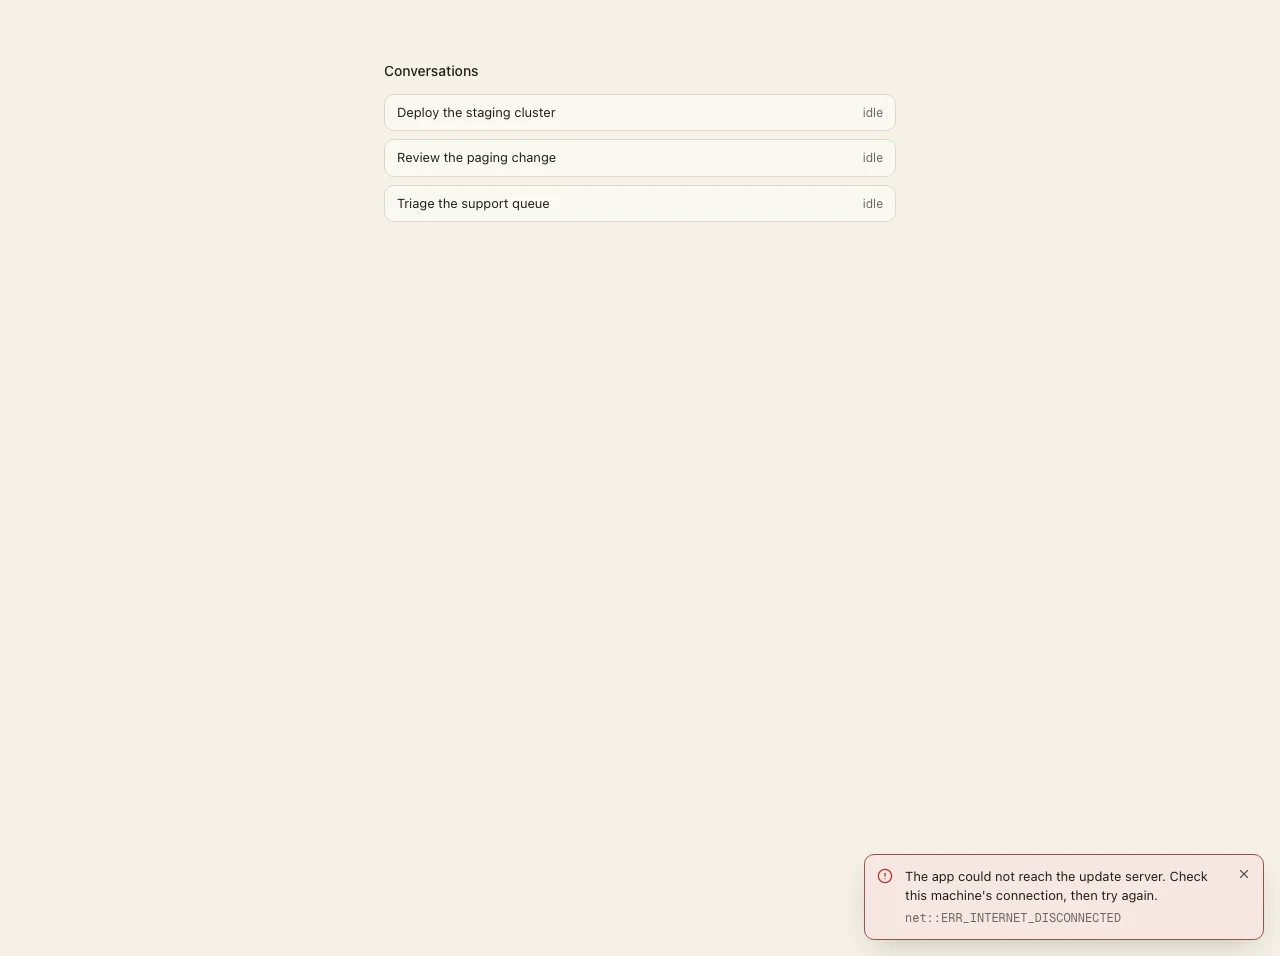
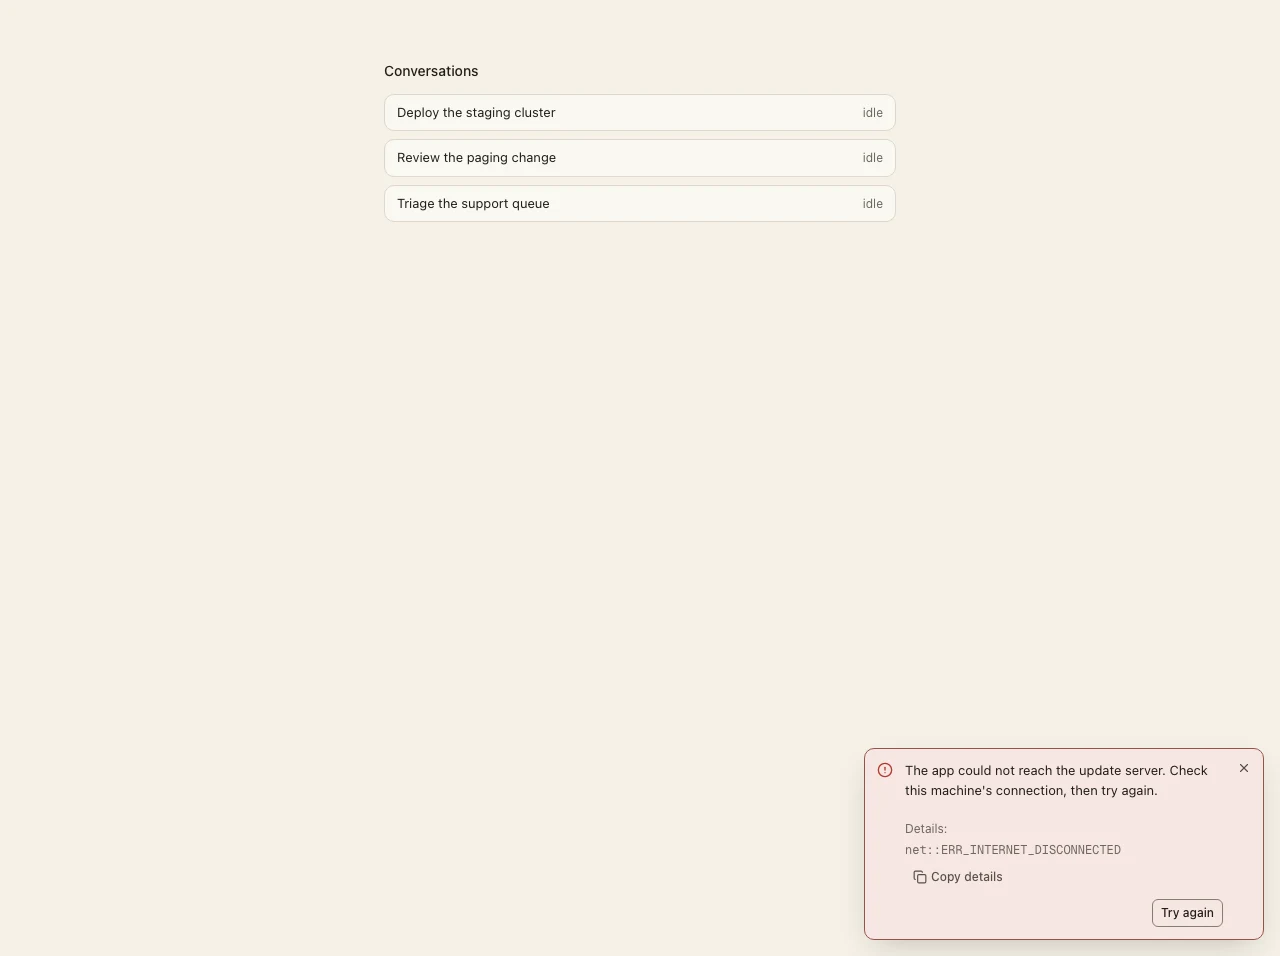
docs(evidence): the root cause, the round's frames, and every gate on it
THE ROOT CAUSE, not the symptom. `root-cause-dark-wake.txt` records what the
failure actually is: a macOS dark wake. `pmset -g log` has
`2026-09-16 09:03:12 DarkWake from Deep Idle [CDN] : due to
smc.sysState.Wake(0x70070000) wifibt` - the wake reason names the Wi-Fi stack -
and the feed fetch failed in that same second while airportd reported
`hasAssocToWiFi1 = 0`; the three endpoints answer 200 today and no proxy is
configured, so it is not an outage and not the path. Every command in that file
was re-run at capture time, and the two that could not be (the rotated log
lines, and a FALSE reading from `net.isOnline()`, which a working machine
cannot produce) say so in their own sections.

THE FRAMES. `error-state` now carries the retry its sentence names and no
self-dismiss timer; `error-state-wrapped` is the wrapped feed failure design
round 1 asked for, where the sentence stands alone and the machine's words sit
under a `Details:` label. The first capture of that frame was read rather than
trusted, and the code line had wrapped mid-token (`..._CHAN` / `GED`) - so
`PanelDetails` gained the stacked arrangement, the frame was re-captured, and
the panel surfaces' own eighteen frames are untouched.

The README says what those two frames are NOT: there is no "before" frame in the
tree, and the operator's own screenshot is the before (design D7).

Changed region(s): [[0.6875, 0.8797, 0.9688, 0.9707], [0.6875, 0.7887, 0.9375, 0.8494]]

diff --git a/docs/evidence/update-robustness/README.md b/docs/evidence/update-robustness/README.md
@@ -30,6 +30,8 @@ Copied from the audit of the operator's machine
 | [remediation-round-2.txt](remediation-round-2.txt) | The same gates on the second remediation, plus the measurements the watchdog's bound is derived from: every ShipIt attempt in this log by timestamp (255 s slowest), the `plutil` read the swap check makes against the real bundle, and the launchd answer for a job that is not loaded (exit 3, no output) that Q4 is about. |
 | [transient-transport-log-excerpts.txt](transient-transport-log-excerpts.txt) | The other half of the same log: the 90 Chromium transport failures (`net::ERR_CONNECTION_RESET` 36, `net::ERR_TIMED_OUT` 24, `net::ERR_CONNECTION_REFUSED` 14, `net::ERR_NETWORK_CHANGED` 8, `net::ERR_INTERNET_DISCONNECTED` 8, plus `getaddrinfo ENOTFOUND pypi.org`) that were each reported to the user as a red alert reading the raw code. It also records the two producers of one message and the wrapped `Cannot parse releases feed: ... Error: net::ERR_NETWORK_CHANGED` shape the classifier matches on. The file has since rotated under the running app, which is why this is an excerpt. |
 | [transient-transport-round-1.txt](transient-transport-round-1.txt) | Every gate on the change that retired those alerts: lint and the scripts gate (including the one error the scripts gate caught), typecheck, the real build, the desktop suites with their runner's concurrency line, and the two capture runs - with the first banner capture recorded as a frame of the defect (9,140 bytes of plain ground) and the config stub the story needed. `pnpm check-evidence` was DEFERRED at the time of writing (exit 75, another sweep held the machine lease). |
+| [root-cause-dark-wake.txt](root-cause-dark-wake.txt) | WHY the failures happen at all, and what the fix does about it: the 09:03:12 fetch is a macOS DARK WAKE to the second (`wifibt` in the wake reason), Wi-Fi was not associated (`hasAssocToWiFi1 = 0`), the endpoints answer 200 and no proxy is configured, and `net.isOnline()` read for real through Electron. All but the rotated log lines re-run at capture time. |
+| [transient-transport-round-2.txt](transient-transport-round-2.txt) | The gates on the review remediation, including the operator's rule that an app-initiated check reports nothing, the pre-flight gate's own case, the collapsed overlapping fetch, and the frames this round added. `pnpm check-evidence` is recorded there with the outcome it actually had. |
 
 ## The gate, run against the shipped 0.17.0 release
 
@@ -249,6 +251,20 @@ alone — they are the only record of why the install failed, and the failure
 detail points at them. See [leftover-shipit-job.txt](leftover-shipit-job.txt).
 
 ## The frames
+
+### The two alert frames, and what they are not
+
+| Surface | Frame | State |
+| --- | --- | --- |
+| update-error (a check the user asked for) | [dark](common-updatenotification/error-state/localOperatorDark.webp) · [light](common-updatenotification/error-state/localOperatorLight.webp) | The sentence *"The app could not reach the update server. Check this machine's connection, then try again."* with `net::ERR_INTERNET_DISCONNECTED` below it under the `Details:` label, the retry the sentence names beside the message, and no self-dismiss timer. |
+| update-error (the wrapped feed failure) | [dark](common-updatenotification/error-state-wrapped/localOperatorDark.webp) · [light](common-updatenotification/error-state-wrapped/localOperatorLight.webp) | The same surface for the shape the log actually holds - `Cannot parse releases feed: ... net::ERR_NETWORK_CHANGED` - where the sentence must stand ALONE: the wrapper's URL and its release-owner instruction are not part of what a person reads. |
+
+**There is no "before" frame in this directory, and the pair is therefore half
+present (design round 1, D7).** The before is the operator's own screenshot: a red
+alert, same corner, whose entire message was `net::ERR_INTERNET_DISCONNECTED`. It
+exists as the report quoted in the PR body, not as a file here, and it is not
+this directory's to publish - the frame above is the REPLACEMENT for it, not the
+same artifact.
 
 Captured with `node scripts/capture-evidence.mjs http://localhost:6006
 --only=common-updatenotification --themes=localOperatorDark,localOperatorLight
